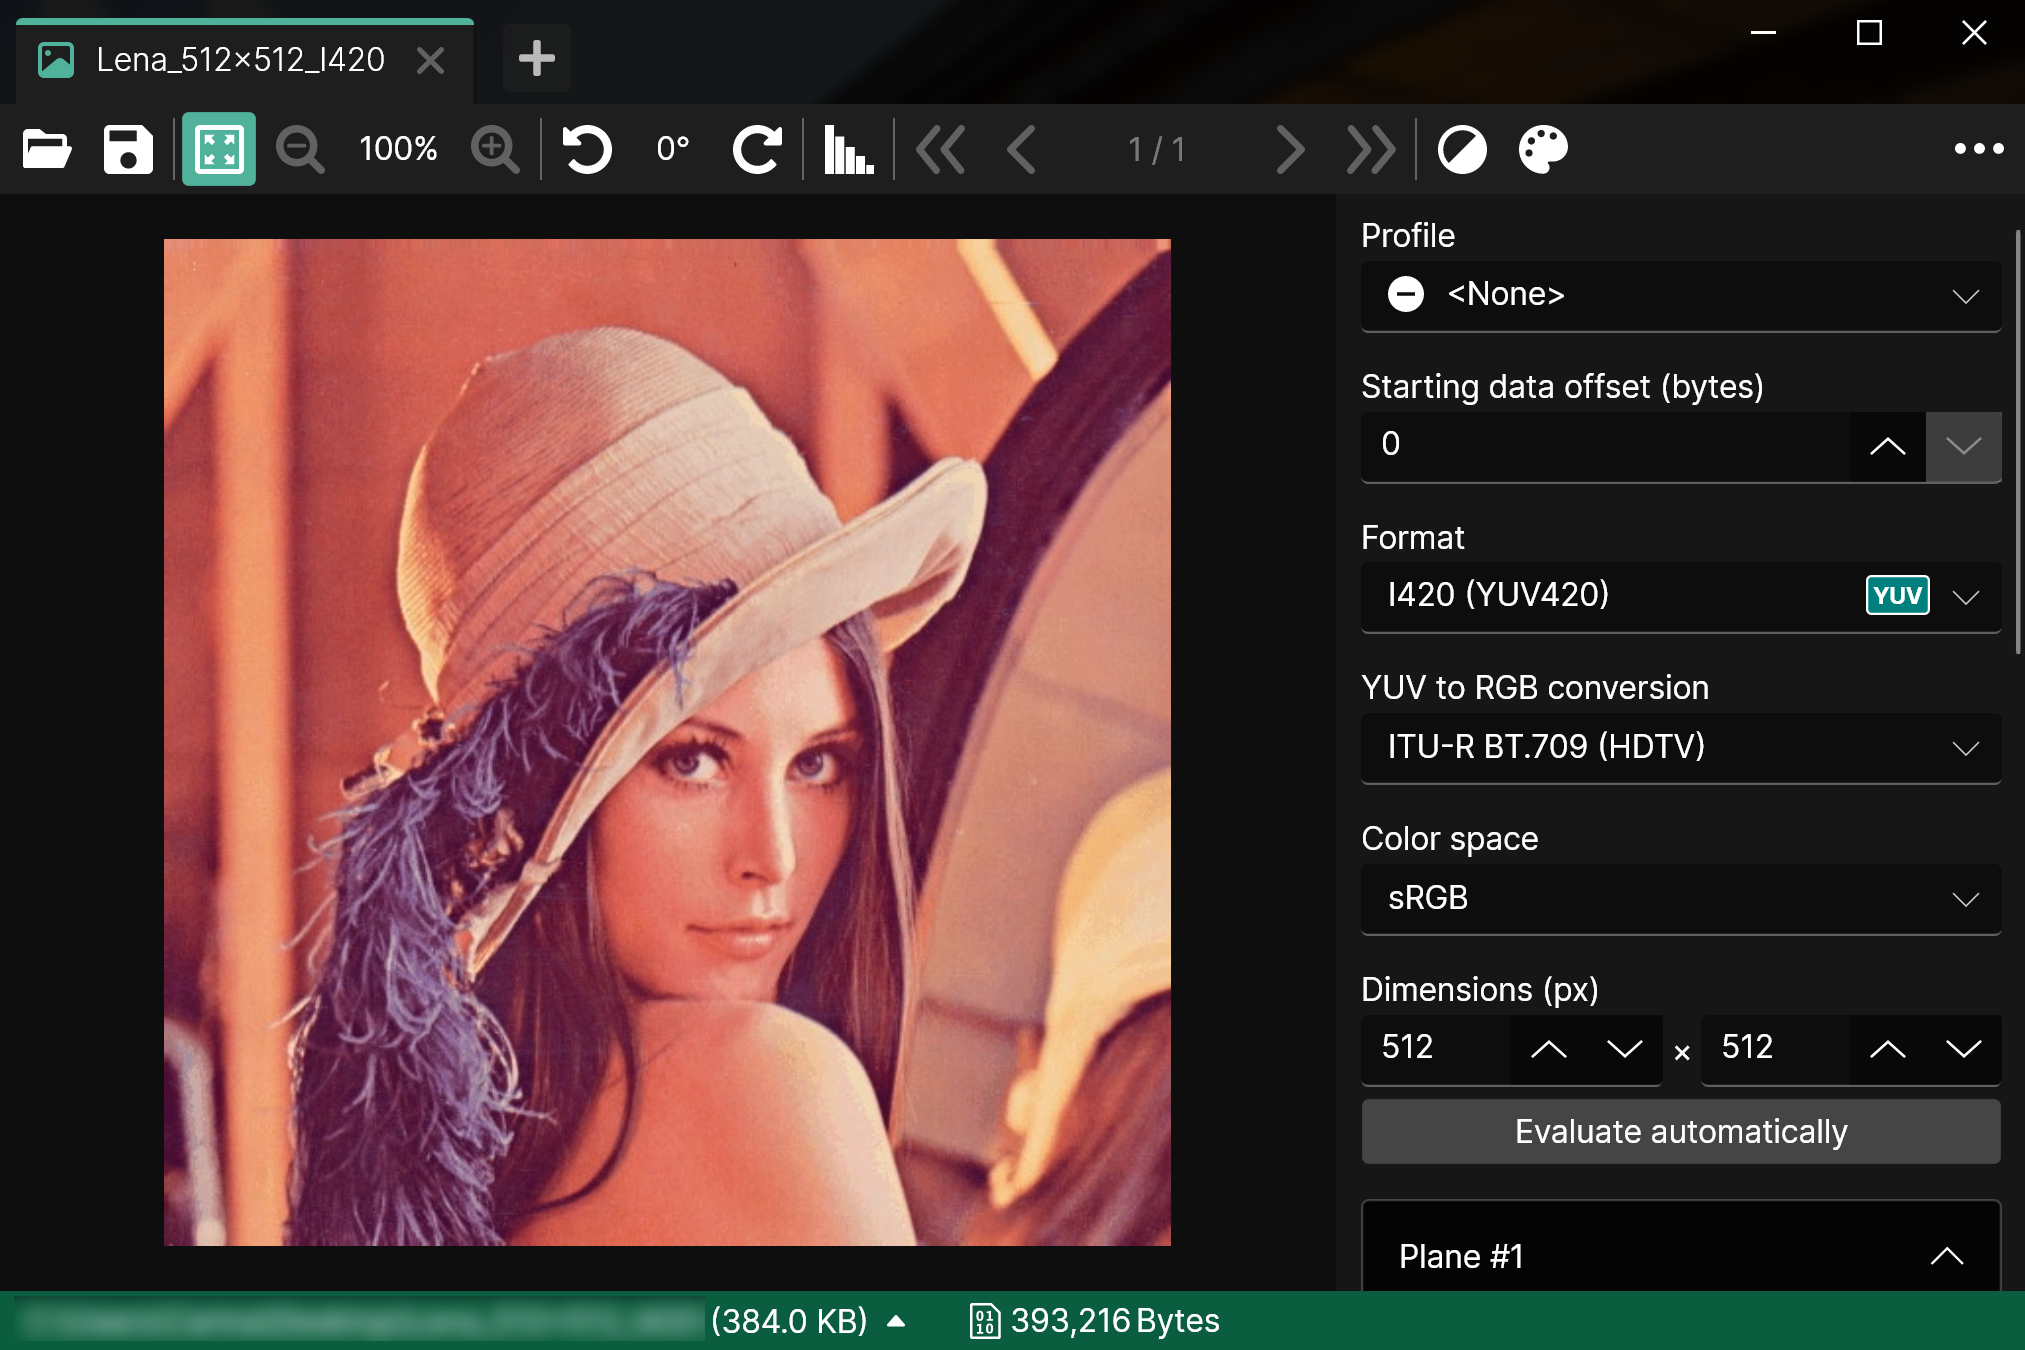
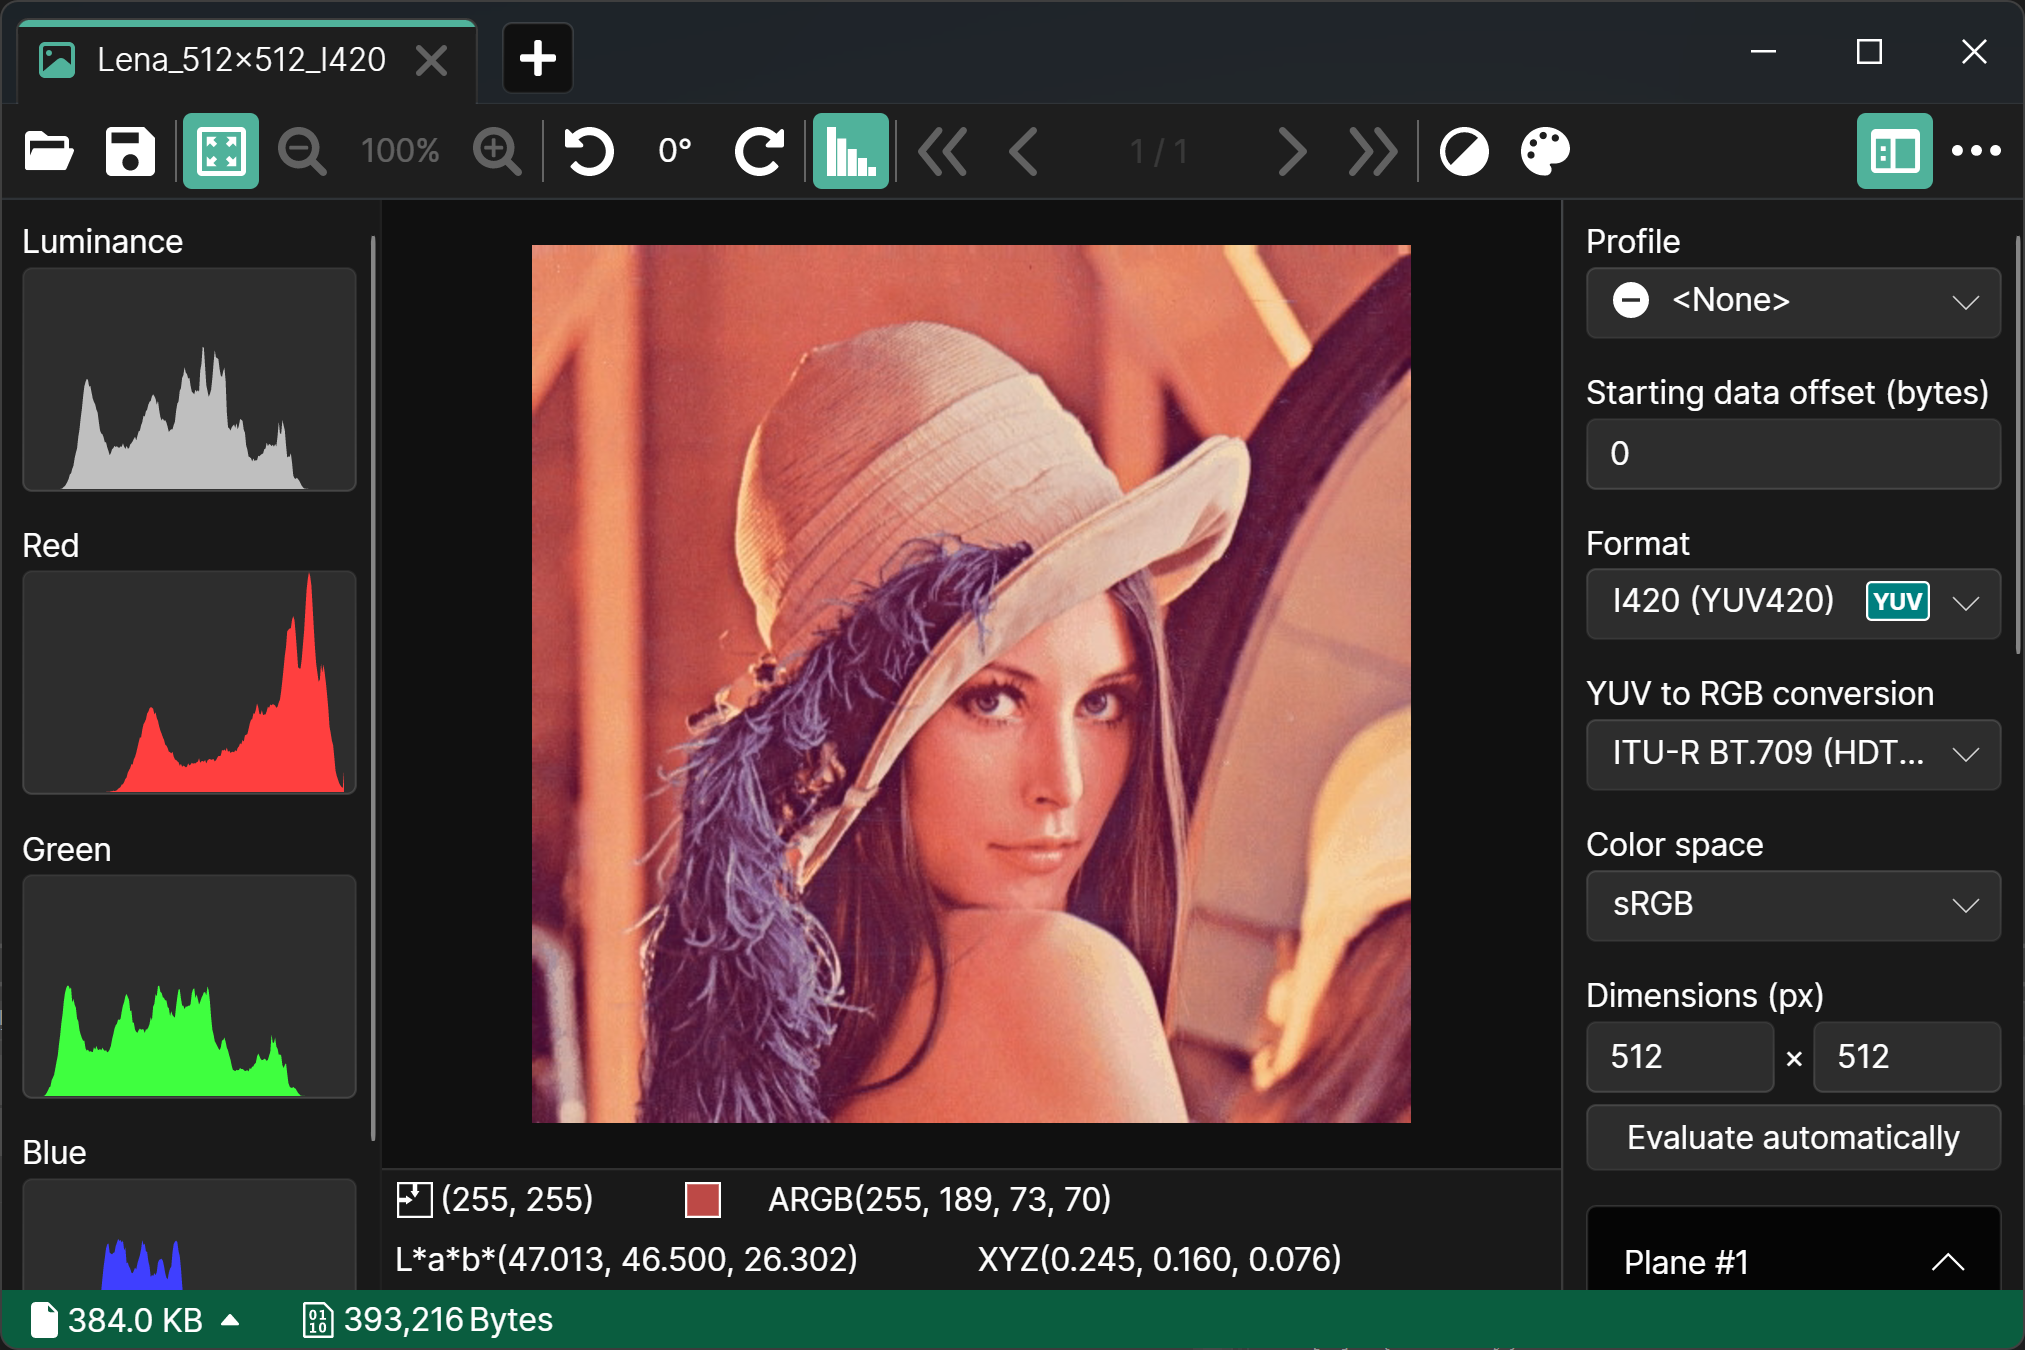
Update package manifest and pages to 1.106.0.222.

diff --git a/README.md b/README.md
@@ -1,4 +1,4 @@
-# PixelViewer [![](https://img.shields.io/github/release-date-pre/carina-studio/PixelViewer?style=flat-square)](https://github.com/carina-studio/PixelViewer/releases/tag/1.105.0.1220) [![](https://img.shields.io/github/last-commit/carina-studio/PixelViewer?style=flat-square)](https://github.com/carina-studio/PixelViewer/commits/master) [![](https://img.shields.io/github/license/carina-studio/PixelViewer?style=flat-square)](https://github.com/carina-studio/PixelViewer/blob/master/LICENSE.md)
+# PixelViewer [![](https://img.shields.io/github/release-date-pre/carina-studio/PixelViewer?style=flat-square)](https://github.com/carina-studio/PixelViewer/releases/tag/1.106.0.222) [![](https://img.shields.io/github/last-commit/carina-studio/PixelViewer?style=flat-square)](https://github.com/carina-studio/PixelViewer/commits/master) [![](https://img.shields.io/github/license/carina-studio/PixelViewer?style=flat-square)](https://github.com/carina-studio/PixelViewer/blob/master/LICENSE.md)
 
 PixelViewer is a [.NET](https://dotnet.microsoft.com/) based cross-platform image viewer written by C# which supports reading raw Luminance/YUV/RGB/ARGB/Bayer pixels data from file and rendering it.
 
@@ -6,25 +6,46 @@ PixelViewer is a [.NET](https://dotnet.microsoft.com/) based cross-platform imag
 
 Operating System                      | Download | Version | Screenshot
 :------------------------------------:|:--------:|:-------:|:----------:
-Windows 8/10/11                       |[x86](https://github.com/carina-studio/PixelViewer/releases/download/1.105.0.1220/PixelViewer-1.105.0.1220-win-x86.zip) &#124; [x64](https://github.com/carina-studio/PixelViewer/releases/download/1.105.0.1220/PixelViewer-1.105.0.1220-win-x64.zip)|1.105.0.1220 (Preview)|[<img src="https://carina-studio.github.io/PixelViewer/Screenshot_MainWindow_Windows_Thumb.png" alt="Main window (Windows)" width="150"/>](https://carina-studio.github.io/PixelViewer/Screenshot_MainWindow_Windows.png)
-Windows 7<br/>*(.NET Runtime needed)* |[x86](https://github.com/carina-studio/PixelViewer/releases/download/1.105.0.1220/PixelViewer-1.105.0.1220-win-x86-fx-dependent.zip) &#124; [x64](https://github.com/carina-studio/PixelViewer/releases/download/1.105.0.1220/PixelViewer-1.105.0.1220-win-x64-fx-dependent.zip)|1.105.0.1220 (Preview)|[<img src="https://carina-studio.github.io/PixelViewer/Screenshot_MainWindow_Windows7_Thumb.png" alt="Main window (Windows 7)" width="150"/>](https://carina-studio.github.io/PixelViewer/Screenshot_MainWindow_Windows7.png)
-macOS 11/12                           |[x64](https://github.com/carina-studio/PixelViewer/releases/download/1.105.0.1220/PixelViewer-1.105.0.1220-osx-x64.zip)|1.105.0.1220 (Preview)|[<img src="https://carina-studio.github.io/PixelViewer/Screenshot_MainWindow_macOS_Thumb.png" alt="Main window (macOS)" width="150"/>](https://carina-studio.github.io/PixelViewer/Screenshot_MainWindow_macOS.png)
-Linux                                 |[x64](https://github.com/carina-studio/PixelViewer/releases/download/1.105.0.1220/PixelViewer-1.105.0.1220-linux-x64.zip)|1.105.0.1220 (Preview)|[<img src="https://carina-studio.github.io/PixelViewer/Screenshot_MainWindow_Ubuntu_Thumb.png" alt="Main window (Ubuntu)" width="150"/>](https://carina-studio.github.io/PixelViewer/Screenshot_MainWindow_Ubuntu.png)
+Windows 8/10/11                       |[x86](https://github.com/carina-studio/PixelViewer/releases/download/1.106.0.222/PixelViewer-1.106.0.222-win-x86.zip) &#124; [x64](https://github.com/carina-studio/PixelViewer/releases/download/1.106.0.222/PixelViewer-1.106.0.222-win-x64.zip) &#124; [arm64](https://github.com/carina-studio/PixelViewer/releases/download/1.106.0.222/PixelViewer-1.106.0.222-win-arm64.zip)|1.106.0.222 (Preview)|[<img src="https://carina-studio.github.io/PixelViewer/Screenshot_MainWindow_Windows_Thumb.png" alt="Main window (Windows)" width="150"/>](https://carina-studio.github.io/PixelViewer/Screenshot_MainWindow_Windows.png)
+Windows 7<br/>*(.NET Runtime needed)* |[x86](https://github.com/carina-studio/PixelViewer/releases/download/1.106.0.222/PixelViewer-1.106.0.222-win-x86-fx-dependent.zip) &#124; [x64](https://github.com/carina-studio/PixelViewer/releases/download/1.106.0.222/PixelViewer-1.106.0.222-win-x64-fx-dependent.zip)|1.106.0.222 (Preview)|[<img src="https://carina-studio.github.io/PixelViewer/Screenshot_MainWindow_Windows7_Thumb.png" alt="Main window (Windows 7)" width="150"/>](https://carina-studio.github.io/PixelViewer/Screenshot_MainWindow_Windows7.png)
+macOS 11/12                           |[x64](https://github.com/carina-studio/PixelViewer/releases/download/1.106.0.222/PixelViewer-1.106.0.222-osx-x64.zip) &#124; [arm64](https://github.com/carina-studio/PixelViewer/releases/download/1.106.0.222/PixelViewer-1.106.0.222-osx-arm64.zip)|1.106.0.222 (Preview)|[<img src="https://carina-studio.github.io/PixelViewer/Screenshot_MainWindow_macOS_Thumb.png" alt="Main window (macOS)" width="150"/>](https://carina-studio.github.io/PixelViewer/Screenshot_MainWindow_macOS.png)
+Linux                                 |[x64](https://github.com/carina-studio/PixelViewer/releases/download/1.106.0.222/PixelViewer-1.106.0.222-linux-x64.zip) &#124; [arm64](https://github.com/carina-studio/PixelViewer/releases/download/1.106.0.222/PixelViewer-1.106.0.222-linux-arm64.zip)|1.106.0.222 (Preview)|[<img src="https://carina-studio.github.io/PixelViewer/Screenshot_MainWindow_Fedora_Thumb.png" alt="Main window (Fedora)" width="150"/>](https://carina-studio.github.io/PixelViewer/Screenshot_MainWindow_Fedora.png)
 
 - [How to Install and Upgrade PixelViewer](https://carina-studio.github.io/PixelViewer/installation_and_upgrade.html)
 
-## 📣 What's Change in 1.105.0.1220
-- Support rendering ```10/12-bit MIPI Bayer Pattern``` images.
-- Support rendering ```ABGR_16161616```/```ARGB_16161616```/```BGRA_16161616```/```RGBA_16161616``` images.
-- Support saving image as ```Raw 32/64-bit BGRA pixels```.
-- Upgrade to [.NET 6](https://docs.microsoft.com/en-us/dotnet/core/whats-new/dotnet-6).
-- Update sampling mode to improve quality of rendering image.
-- Automatically change quality of rendering image according to scale of image for better image quality and performance.
-- Support running on ```Windows 7``` and ```Windows 8```.
-- Support running on ```x86``` PC.
-- UX improvement.
-- Merge ```BGGR_16```/```GBRG_16```/```GRBG_16```/```RGGB_16``` into single format ```Bayer Pattern (16-bit)``` which allows changing Bayer Pattern.
-- Bug fixing.
+## 📣 What's Change in 1.106.0.222
+- Add ```Display-P3``` color space and set as default screen color space on ```macOS```.
+- Add information bar to show ```ARGB```/```L*a*b*```/```XYZ``` colors of selected pixel.
+- Limited support of parsing DNG file.
+- Support saving image with orientation.
+- Support 4x4 Bayer Patterns.
+- Support RGB gain for ```Bayer Pattern``` formats.
+- Support ```BGR_161616```/```RGB_161616``` formats.
+- Allow specifying transformation function of brightness/contrast adjustment.
+- Add highlight/shadow adjustment on image.
+- Support selecting image format automatically according to file name of image.
+- Support specifying default byte ordering.
+- Support arranging tabs by dragging (not supported yet on ```Linux```).
+- Support opening tab in new window.
+- Support drag and drop multiple files to open.
+- Support layouting windows in horizontal, vertical or tile mode.
+- Support using system theme mode on ```macOS```.
+- Support hiding rendering parameters panel to get more space for viewing image.
+- Support auto update on ```macOS```.
+- Improve tab scrolling UX.
+- Improve toolbar scrolling UX.
+- Calculate memory usage of rendered images with more accuracy.
+- Reduce size of update packages for auto updating.
+- Other UX improvement.
+- Use system menu bar on ```macOS```.
+- Enable ```Color Space Management``` by default on ```macOS```.
+- Use ```Command``` key instead of ```Ctrl``` key on ```macOS```.
+- Use single process to manage all windows.
+- Update dependent libraries.
+- Correct parameters of ```DCI-P3``` color space.
+- Correct algorithm of demosaicing.
+- Fix issue of unable to launch on ```ARM64``` PC.
+- Other bug fixing.
 
 ## ⭐ Supported formats
 * Luminance
@@ -55,6 +76,8 @@ Linux                                 |[x64](https://github.com/carina-studio/Pi
   * RGBX_8888
   * XBGR_8888
   * XRGB_8888
+  * BGR_161616 (v1.106+)
+  * RGB_161616 (v1.106+)
 * ARGB
   * ARGB_8888
   * ABGR_8888
@@ -72,6 +95,7 @@ Linux                                 |[x64](https://github.com/carina-studio/Pi
 ## ⭐ Supported color spaces (v1.104+)
 * sRGB
 * DCI-P3
+* Display-P3 (v1.106+)
 * Adobe RGB
 * ITU-R BT.601
 * ITU-R BT.2020
@@ -85,6 +109,7 @@ Linux                                 |[x64](https://github.com/carina-studio/Pi
 * Rotate and scale rendered image.
 * Navigate to specific image frame in file. (v1.99+)
 * Adjust brightness/contrast and color balance. (v1.104+)
+* Adjust highlight/shadow of image. (v1.106+)
 * Show histograms of R/G/B and luminance. (v1.102+)
 * Demosaicing for Bayer Pattern formats. (v1.103+)
 * Save rendered image as PNG file.

diff --git a/docs/index.md b/docs/index.md
@@ -6,25 +6,46 @@ PixelViewer is a [.NET](https://dotnet.microsoft.com/) based cross-platform imag
 
 Operating System                      | Download | Version | Screenshot
 :------------------------------------:|:--------:|:-------:|:----------:
-Windows 8/10/11                       |[x86](https://github.com/carina-studio/PixelViewer/releases/download/1.105.0.1220/PixelViewer-1.105.0.1220-win-x86.zip) &#124; [x64](https://github.com/carina-studio/PixelViewer/releases/download/1.105.0.1220/PixelViewer-1.105.0.1220-win-x64.zip)|1.105.0.1220 (Preview)|[<img src="https://carina-studio.github.io/PixelViewer/Screenshot_MainWindow_Windows_Thumb.png" alt="Main window (Windows)" width="150"/>](https://carina-studio.github.io/PixelViewer/Screenshot_MainWindow_Windows.png)
-Windows 7<br/>*(.NET Runtime needed)* |[x86](https://github.com/carina-studio/PixelViewer/releases/download/1.105.0.1220/PixelViewer-1.105.0.1220-win-x86-fx-dependent.zip) &#124; [x64](https://github.com/carina-studio/PixelViewer/releases/download/1.105.0.1220/PixelViewer-1.105.0.1220-win-x64-fx-dependent.zip)|1.105.0.1220 (Preview)|[<img src="https://carina-studio.github.io/PixelViewer/Screenshot_MainWindow_Windows7_Thumb.png" alt="Main window (Windows 7)" width="150"/>](https://carina-studio.github.io/PixelViewer/Screenshot_MainWindow_Windows7.png)
-macOS 11/12                           |[x64](https://github.com/carina-studio/PixelViewer/releases/download/1.105.0.1220/PixelViewer-1.105.0.1220-osx-x64.zip)|1.105.0.1220 (Preview)|[<img src="https://carina-studio.github.io/PixelViewer/Screenshot_MainWindow_macOS_Thumb.png" alt="Main window (macOS)" width="150"/>](https://carina-studio.github.io/PixelViewer/Screenshot_MainWindow_macOS.png)
-Linux                                 |[x64](https://github.com/carina-studio/PixelViewer/releases/download/1.105.0.1220/PixelViewer-1.105.0.1220-linux-x64.zip)|1.105.0.1220 (Preview)|[<img src="https://carina-studio.github.io/PixelViewer/Screenshot_MainWindow_Ubuntu_Thumb.png" alt="Main window (Ubuntu)" width="150"/>](https://carina-studio.github.io/PixelViewer/Screenshot_MainWindow_Ubuntu.png)
+Windows 8/10/11                       |[x86](https://github.com/carina-studio/PixelViewer/releases/download/1.106.0.222/PixelViewer-1.106.0.222-win-x86.zip) &#124; [x64](https://github.com/carina-studio/PixelViewer/releases/download/1.106.0.222/PixelViewer-1.106.0.222-win-x64.zip) &#124; [arm64](https://github.com/carina-studio/PixelViewer/releases/download/1.106.0.222/PixelViewer-1.106.0.222-win-arm64.zip)|1.106.0.222 (Preview)|[<img src="https://carina-studio.github.io/PixelViewer/Screenshot_MainWindow_Windows_Thumb.png" alt="Main window (Windows)" width="150"/>](https://carina-studio.github.io/PixelViewer/Screenshot_MainWindow_Windows.png)
+Windows 7<br/>*(.NET Runtime needed)* |[x86](https://github.com/carina-studio/PixelViewer/releases/download/1.106.0.222/PixelViewer-1.106.0.222-win-x86-fx-dependent.zip) &#124; [x64](https://github.com/carina-studio/PixelViewer/releases/download/1.106.0.222/PixelViewer-1.106.0.222-win-x64-fx-dependent.zip)|1.106.0.222 (Preview)|[<img src="https://carina-studio.github.io/PixelViewer/Screenshot_MainWindow_Windows7_Thumb.png" alt="Main window (Windows 7)" width="150"/>](https://carina-studio.github.io/PixelViewer/Screenshot_MainWindow_Windows7.png)
+macOS 11/12                           |[x64](https://github.com/carina-studio/PixelViewer/releases/download/1.106.0.222/PixelViewer-1.106.0.222-osx-x64.zip) &#124; [arm64](https://github.com/carina-studio/PixelViewer/releases/download/1.106.0.222/PixelViewer-1.106.0.222-osx-arm64.zip)|1.106.0.222 (Preview)|[<img src="https://carina-studio.github.io/PixelViewer/Screenshot_MainWindow_macOS_Thumb.png" alt="Main window (macOS)" width="150"/>](https://carina-studio.github.io/PixelViewer/Screenshot_MainWindow_macOS.png)
+Linux                                 |[x64](https://github.com/carina-studio/PixelViewer/releases/download/1.106.0.222/PixelViewer-1.106.0.222-linux-x64.zip) &#124; [arm64](https://github.com/carina-studio/PixelViewer/releases/download/1.106.0.222/PixelViewer-1.106.0.222-linux-arm64.zip)|1.106.0.222 (Preview)|[<img src="https://carina-studio.github.io/PixelViewer/Screenshot_MainWindow_Fedora_Thumb.png" alt="Main window (Fedora)" width="150"/>](https://carina-studio.github.io/PixelViewer/Screenshot_MainWindow_Fedora.png)
 
 - [How to Install and Upgrade PixelViewer](installation_and_upgrade.md)
 
-## 📣 What's Change in 1.105.0.1220
-- Support rendering ```10/12-bit MIPI Bayer Pattern``` images.
-- Support rendering ```ABGR_16161616```/```ARGB_16161616```/```BGRA_16161616```/```RGBA_16161616``` images.
-- Support saving image as ```Raw 32/64-bit BGRA pixels```.
-- Upgrade to [.NET 6](https://docs.microsoft.com/en-us/dotnet/core/whats-new/dotnet-6).
-- Update sampling mode to improve quality of rendering image.
-- Automatically change quality of rendering image according to scale of image for better image quality and performance.
-- Support running on ```Windows 7``` and ```Windows 8```.
-- Support running on ```x86``` PC.
-- UX improvement.
-- Merge ```BGGR_16```/```GBRG_16```/```GRBG_16```/```RGGB_16``` into single format ```Bayer Pattern (16-bit)``` which allows changing Bayer Pattern.
-- Bug fixing.
+## 📣 What's Change in 1.106.0.222
+- Add ```Display-P3``` color space and set as default screen color space on ```macOS```.
+- Add information bar to show ```ARGB```/```L*a*b*```/```XYZ``` colors of selected pixel.
+- Limited support of parsing DNG file.
+- Support saving image with orientation.
+- Support 4x4 Bayer Patterns.
+- Support RGB gain for ```Bayer Pattern``` formats.
+- Support ```BGR_161616```/```RGB_161616``` formats.
+- Allow specifying transformation function of brightness/contrast adjustment.
+- Add highlight/shadow adjustment on image.
+- Support selecting image format automatically according to file name of image.
+- Support specifying default byte ordering.
+- Support arranging tabs by dragging (not supported yet on ```Linux```).
+- Support opening tab in new window.
+- Support drag and drop multiple files to open.
+- Support layouting windows in horizontal, vertical or tile mode.
+- Support using system theme mode on ```macOS```.
+- Support hiding rendering parameters panel to get more space for viewing image.
+- Support auto update on ```macOS```.
+- Improve tab scrolling UX.
+- Improve toolbar scrolling UX.
+- Calculate memory usage of rendered images with more accuracy.
+- Reduce size of update packages for auto updating.
+- Other UX improvement.
+- Use system menu bar on ```macOS```.
+- Enable ```Color Space Management``` by default on ```macOS```.
+- Use ```Command``` key instead of ```Ctrl``` key on ```macOS```.
+- Use single process to manage all windows.
+- Update dependent libraries.
+- Correct parameters of ```DCI-P3``` color space.
+- Correct algorithm of demosaicing.
+- Fix issue of unable to launch on ```ARM64``` PC.
+- Other bug fixing.
 
 ## ⭐ Supported formats
 * Luminance
@@ -55,6 +76,8 @@ Linux                                 |[x64](https://github.com/carina-studio/Pi
   * RGBX_8888
   * XBGR_8888
   * XRGB_8888
+  * BGR_161616 (v1.106+)
+  * RGB_161616 (v1.106+)
 * ARGB
   * ARGB_8888
   * ABGR_8888
@@ -72,6 +95,7 @@ Linux                                 |[x64](https://github.com/carina-studio/Pi
 ## ⭐ Supported color spaces (v1.104+)
 * sRGB
 * DCI-P3
+* Display-P3 (v1.106+)
 * Adobe RGB
 * ITU-R BT.601
 * ITU-R BT.2020
@@ -85,6 +109,7 @@ Linux                                 |[x64](https://github.com/carina-studio/Pi
 * Rotate and scale rendered image.
 * Navigate to specific image frame in file. (v1.99+)
 * Adjust brightness/contrast and color balance. (v1.104+)
+* Adjust highlight/shadow of image. (v1.106+)
 * Show histograms of R/G/B and luminance. (v1.102+)
 * Demosaicing for Bayer Pattern formats. (v1.103+)
 * Save rendered image as PNG file.
